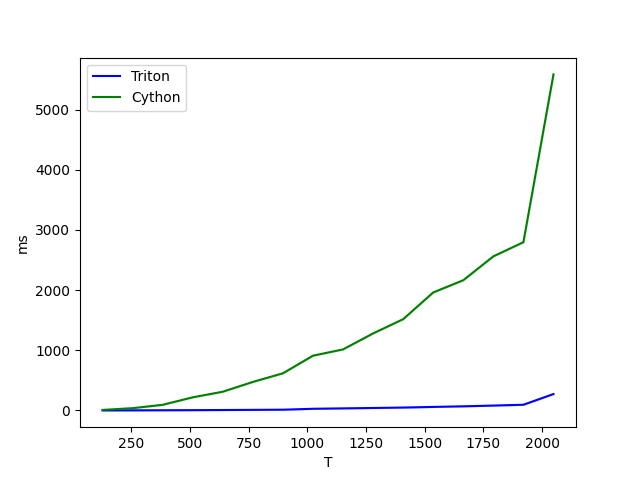
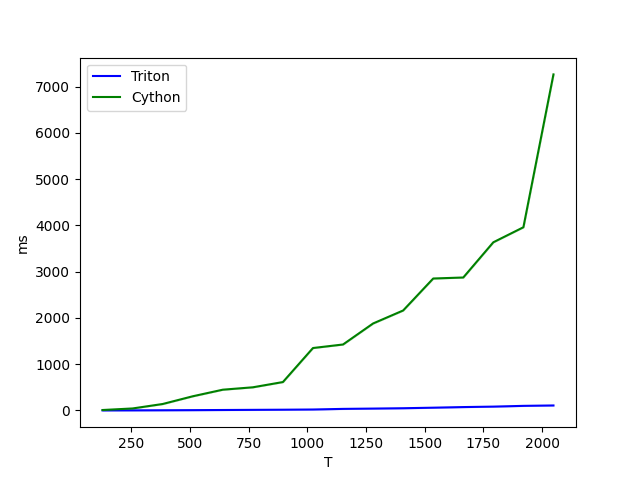
remove additional memory allocation by padding

diff --git a/super_monotonic_align/core.py b/super_monotonic_align/core.py
@@ -6,36 +6,32 @@ import triton.language as tl
 @triton.jit
 def maximum_path(
     path, value, t_x, t_y,
-    t_x_stride, t_y_stride,
-    path_stride_b, path_stride_x, path_stride_y,
-    value_stride_b, value_stride_x, value_stride_y,
+    B, T, S,
+    max_neg_val,
     BLOCK_SIZE_X: tl.constexpr
     ):
     batch = tl.program_id(axis=0)
-    path += batch * path_stride_b
-    t_x += batch * t_x_stride
-    x_length = tl.load(t_x)
-    index = tl.load(t_x)-1
-    t_y += batch * t_y_stride   
-    y_length = tl.load(t_y)
-    value += batch * value_stride_b
+    path += batch * T * S
+    value += batch * T * S
+    x_length = tl.load(t_x + batch)
+    y_length = tl.load(t_y + batch)
     offs_prev = tl.arange(0, BLOCK_SIZE_X)
-    for j in range(2, y_length+1, 1):
-        x_start = 0 
-        x_end = x_length
-        v_cur= tl.load(value + (offs_prev+1)* value_stride_x + (j-1)*value_stride_y, mask=(offs_prev < x_end) & (offs_prev >= x_start), other=-1e9)
-        v_prev =tl.load(value + offs_prev* value_stride_x + (j-1)*value_stride_y, mask=(offs_prev < x_end) & (offs_prev >= x_start), other=-1e9)
+    init = tl.where(offs_prev ==0, tl.load(value), max_neg_val)
+    # for j in range(0,1,1):  # set the first column to -1e9 without init point
+    tl.store(value + offs_prev * S, init, mask=offs_prev < x_length)
+    for j in range(1, y_length, 1):
+        v_cur= tl.load(value + (offs_prev) * S + (j-1), mask=(offs_prev < x_length), other=max_neg_val)
+        v_prev =tl.load(value + (offs_prev-1) * S + (j-1), mask=(0 < offs_prev) & (offs_prev < x_length), other=max_neg_val)
         # compare v_cur and v_prev, and update v with larger value
-        v = tl.maximum(v_cur, v_prev) + tl.load(value + (offs_prev+1)* value_stride_x + j*value_stride_y, mask=(offs_prev < x_end) & (offs_prev >= x_start))
-        tl.store(value + (offs_prev+1)* value_stride_x + j*value_stride_y, v, mask=(offs_prev < x_end) & (offs_prev >= x_start))
+        v = (tl.maximum(v_cur, v_prev) + tl.load(value + (offs_prev) * S + j, mask=(offs_prev < x_length)))
+        tl.store(value + (offs_prev) * S + j, v, mask=(offs_prev < x_length))
 
-
+    index = x_length-1
     for j in range(y_length-1,-1,-1):
-        tl.store(path + (index)*path_stride_x + (j)*path_stride_y, 1)
-        if (index > 0): # (index == j) is not checked due to max_neg_val padding
-            # remember that value is padded
-            v_left = tl.load(value+ (index+1) * value_stride_x+ j*value_stride_y)#.to(tl.float32)
-            v_leftdown =  tl.load(value+(index) * value_stride_x + j*value_stride_y)#.to(tl.float32)
+        tl.store(path + (index) * S + j, 1)
+        if (index > 0): # (index == j) is not checked due to max_neg_val init
+            v_left = tl.load(value+ (index) * S+ j-1)#.to(tl.float32)
+            v_leftdown =  tl.load(value+(index-1) * S + j-1)#.to(tl.float32)
             if (v_left < v_leftdown):
                 index += - 1
             
@@ -43,17 +39,13 @@ def maximum_path(
 @torch.no_grad()
 def maximum_path_triton(path, value, t_x, t_y, max_neg_val=-1e9):
     B,T,S = path.shape
-    value = torch.nn.functional.pad(value, (1, 0, 1, 0, 0, 0), value=max_neg_val) #[B, T+1, S+1]
-    value[:, 2:, 1] = max_neg_val
-    value[:, 0, 0] = 0
-    BLOCK_SIZE_X = max(triton.next_power_of_2(T+1), 16)
+    BLOCK_SIZE_X = max(triton.next_power_of_2(T), 16)
     num_warps = 1 # Need to be 1 to prevent wrong output by slicing the operation
     with torch.cuda.device(value.device.index):
         maximum_path[(B, )](
             path, value, t_x, t_y, 
-            t_x.stride(0), t_y.stride(0),
-            path.stride(0), path.stride(1), path.stride(2),
-            value.stride(0), value.stride(1), value.stride(2),
+            B, T, S,
+            max_neg_val = max_neg_val,
             num_warps = num_warps,
             BLOCK_SIZE_X = BLOCK_SIZE_X)
     return path

diff --git a/super_monotonic_align/__init__.py b/super_monotonic_align/__init__.py
@@ -10,7 +10,8 @@ def maximum_path(value, mask, dtype=torch.float32):
     mask: [b, t_x, t_y]
     skip_mask: [b, t_x]
     """
-    value = value * mask
+    # Use masked_fill_ to avoid new tensor creation
+    value = value.masked_fill_(mask.logical_not(), 0)
     path = torch.zeros_like(value, dtype=dtype)
     t_x_max = mask.sum(1)[:, 0].to(torch.int32) 
     t_y_max = mask.sum(2)[:, 0].to(torch.int32)
@@ -25,7 +26,7 @@ def identical_test(B,T,S):
     path_c = maximum_path_cython(value, attn_mask)
     path_tri = maximum_path(value, attn_mask)
     # not 100% equal due to precision issue
-    assert torch.allclose(path_c, path_tri, atol=1e-2, rtol=0), f"Failed on shape=({B,T,S})"
+    assert torch.allclose(path_c, path_tri, atol=1e-2, rtol=0), f"Failed on shape=({B,T,S}), {path_c} {path_tri} diff:{(path_c-path_tri).abs().sum()}"
 
 # benchmark
 @triton.testing.perf_report(
@@ -38,6 +39,7 @@ def identical_test(B,T,S):
         styles=[('blue', '-'), ('green', '-')],
         ylabel='ms',
         plot_name='MAS in ms',
+        y_log=True,
         args={'B': 16},
     ))
 def bench_mas(B, T, provider, device='cuda'):
@@ -64,6 +66,6 @@ def bench_mas(B, T, provider, device='cuda'):
     return (ms), (max_ms), (min_ms)
 
 if __name__ == "__main__":
-    for (b,t,s) in [(32, 15, 15), (32, 127, 511), (32, 255, 1023), (32, 511, 2047)]:
+    for (b,t,s) in [(32, 16, 16), (32, 128, 512), (32, 256, 1024), (32, 511, 2048)]:
         identical_test(b,t,s)
     bench_mas.run(save_path='.', print_data=True)

diff --git a/README.md b/README.md
@@ -33,35 +33,40 @@ pip install git+https://github.com/supertone-inc/super-monotonic-align.git
 ```python
 from super_monotonic_align import maximum_path
 ...
+# You need to know value's value is modified by triton kernel.
+# If you want to keep value without changing, you need to clone it before maximum_path.
 value = torch.randn((B, T, S), dtype=torch.float32, device='cuda')
 attn_mask = torch.ones((B, T, S), dtype=torch.int32, device='cuda')
-# path: [B,T,S], you can specify dtype of path
-path = maximum_path(value, attn_mask, dtype=dtype)
+# path: [B,T,S]
+path = maximum_path(value, attn_mask)
 ```
 
 # Benchmark
 ```
 MAS in ms:
          T      Triton       Cython
-0    128.0    0.413696     8.216721
-1    256.0    1.649664    37.776081
-2    384.0    3.086336    93.494621
-3    512.0    4.545536   218.105865
-4    640.0    6.973440   311.186676
-5    768.0    9.482240   473.866119
-6    896.0   12.257792   617.156738
-7   1024.0   27.352560   909.698120
-8   1152.0   34.011139  1013.993713
-9   1280.0   40.676353  1279.761597
-10  1408.0   47.934464  1516.422241
-11  1536.0   58.279938  1960.699097
-12  1664.0   68.456451  2163.526855
-13  1792.0   80.745468  2560.196045
-14  1920.0   94.303230  2795.177002
-15  2048.0  272.310272  5583.550781
+0    128.0    0.498688     8.835520
+1    256.0    1.615872    42.645790
+2    384.0    3.428352   138.791458
+3    512.0    5.874688   305.674438
+4    640.0    9.065472   448.026978
+5    768.0   12.222464   499.826355
+6    896.0   15.326208   613.331116
+7   1024.0   19.742207  1348.791382
+8   1152.0   33.110016  1425.197388
+9   1280.0   39.672832  1879.560547
+10  1408.0   47.270401  2160.256836
+11  1536.0   59.043327  2851.383789
+12  1664.0   72.378372  2873.137939
+13  1792.0   82.171906  3634.574219
+14  1920.0   98.664452  3959.088379
+15  2048.0  107.194878  7263.244629
 ```
-![](./assets/MAS.png)
 
+The Triton MAS implementation is at least 17 times faster and up to 67 times faster than the Cython implementation.
+| ms in linear scale | ms in log scale |
+|----------|----------|
+| ![Image 1](./assets/MAS.png) | ![Image 2](./assets/MAS_log.png) |
 
 ## How to run benchmark
 ```bash
